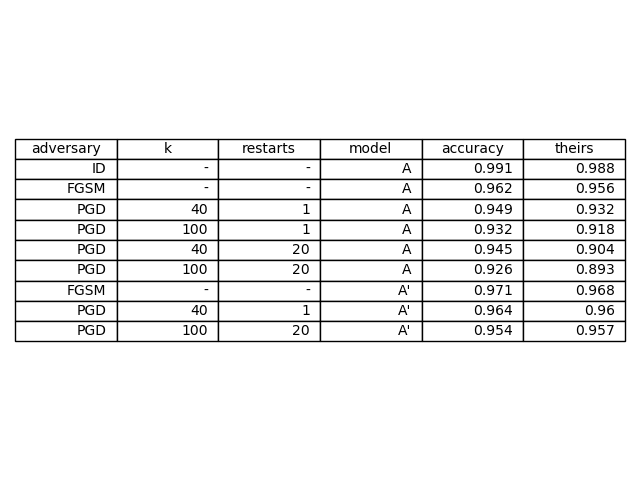
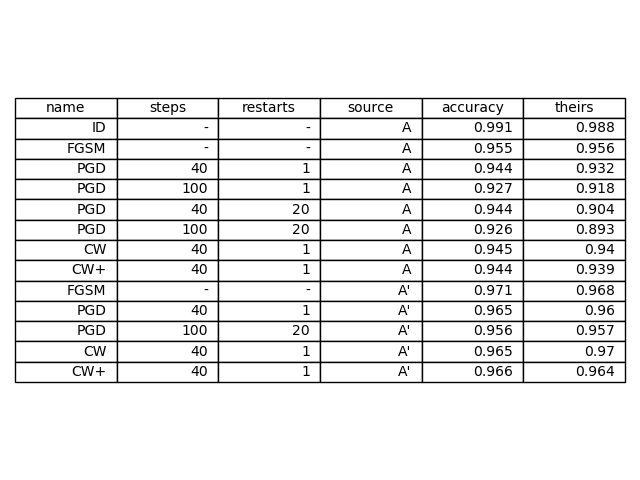
fixed experiment 3

diff --git a/experiments/exp3.py b/experiments/exp3.py
@@ -3,6 +3,7 @@ import copy
 import pprint
 import torch
 import os
+import re
 
 import sys
 import pathlib
@@ -29,7 +30,7 @@ config['other_trainers'] = {
     }
 }
 
-config['eval']['final_metrics']['adversaries'] = [
+adversaries = [
     {'': 'ID', 'theirs': .988},
     {**config['adversaries']['FGSM'], 'theirs': .956},
     {**config['adversaries']['PGD'], 'k': 40, 'restarts': 1, 'theirs': .932},
@@ -39,14 +40,22 @@ config['eval']['final_metrics']['adversaries'] = [
     {**config['adversaries']['PGD'], 'k': 100, 'restarts': 1, 'theirs': .918},
     {**config['adversaries']['PGD'], 'k': 40, 'restarts': 20, 'theirs': .904},
     {**config['adversaries']['PGD'], 'k': 100, 'restarts': 20, 'theirs': .893},
+
     # TODO: What the fuck is this "targeted" row?  I might just be
     # blind but I can't find it defined anywhere.  Maybe it's just
     # CW with a specific target class?
-
     # Targeted 40 1 A
-    {**config['adversaries']['PGD'], '': 'CW', 'name': 'CW', 'theirs': .940},
-    {**config['adversaries']['PGD'],
-     '': 'CW', 'k': 50, 'name': 'CW+', 'theirs': .939},
+
+    # TODO: I don't know what confidence to put for the CW adversary.
+    # The paper doesn't say, and 0 gives results that don't match
+    # theirs (while 50 matches their CW+ quite well).  I went with 20
+    # because it seems to give roughly the right numbers and the CW
+    # paper mentions it as the success plateaux for transfer attacks
+    # (pg. 15).
+    {**config['adversaries']['PGD'], '': 'CW', 'name': 'CW',
+     'confidence': 20, 'restarts': 1, 'theirs': .940},
+    {**config['adversaries']['PGD'], '': 'CW', 'name': 'CW+',
+     'confidence': 50, 'restarts': 1, 'theirs': .939},
 
     {**config['adversaries']['FGSM'], 'model': "A'", 'theirs': .968},
     {**config['adversaries']['PGD'], 'model': "A'",
@@ -54,38 +63,40 @@ config['eval']['final_metrics']['adversaries'] = [
     {**config['adversaries']['PGD'], 'model': "A'",
      'k': 100, 'restarts': 20, 'theirs': .957},
     {**config['adversaries']['PGD'], 'model': "A'",
-     '': 'CW', 'name': 'CW', 'theirs': .970},
+     '': 'CW', 'name': 'CW', 'confidence': 20, 'restarts': 1, 'theirs': .970},
     {**config['adversaries']['PGD'], 'model': "A'",
-     '': 'CW', 'k': 50, 'name': 'CW+', 'theirs': .964},
+     '': 'CW', 'confidence': 50, 'restarts': 1, 'name': 'CW+', 'theirs': .964},
 
     # FGSM B,
     # PGD 40 1 B,
     # CW+ B
 ]
+
 theirs = []
-for i, o in enumerate(config['eval']['final_metrics']['adversaries']):
-    o['name'] = f'{i}'
-    theirs.append(o['theirs'])
-    del o['theirs']
+config['eval']['final_metrics'] = []
+for adversary in adversaries:
+    theirs.append(adversary.pop('theirs'))
+    config['eval']['final_metrics'].append(
+        {'adversaries': [adversary], 'metrics': ['accuracy']}
+    )
 del config['adversaries']
+
 log.info('-'*20)
 log.info('NEW RUN')
 log.info('-'*20)
 log.info('\n'+pprint.pformat(config))
 log.info('---')
-_results = trainer.eval(config)
-print(_results)
-results = []
-for _result in _results:
-    for i, o in enumerate(config['eval']['final_metrics']['adversaries']):
-        to_append = copy.deepcopy(o)
-        o['adversary'] = o['']
-        del o['']
-        results.append({
-            **o,
-            'accuracy': _result[f'{i}_accuracy'],
-            'theirs': theirs[i],
-        })
+results = trainer.eval(config)
+for result, x, conf in zip(results, theirs, adversaries):
+    result['theirs'] = x
+    result['steps'] = conf.get('k', '-')
+    result['restarts'] = conf.get('restarts', '-')
+    result['source'] = conf.get('model', 'A')
+    for k in list(result):
+        if m := re.fullmatch('(.+)_accuracy', k):
+            result['name'] = m[1]
+            result['accuracy'] = result.pop(k)
+print(results)
 
 log.info(results)
 df = pd.DataFrame(results)

diff --git a/trainer.py b/trainer.py
@@ -67,6 +67,7 @@ class Trainer(utils.Writable):
             'MNIST': model.Mnist,
             'FGSM': adversary.FGSM,
             'PGD': adversary.PGD,
+            'CW': adversary.CW,
             'ID': adversary.ID,
         }
         cls = subconfig.pop('')
@@ -99,8 +100,8 @@ class Trainer(utils.Writable):
                 out_str += f' ({batch_per_sec})'
                 log.info(out_str)
 
-    def grad_cb(self, ys, loss_fn=None):
-        def f(points):
+    def grad_cb(self, ys):
+        def f(points, loss_fn=None):
             # TODO: should we be explicitly setting train to True or False
             # here?  Probably it's fine either way.
             with torch.enable_grad():
@@ -216,6 +217,7 @@ def train_test_metrics(_train_config):
 
 @utils.fs_cacheable()
 def eval(config):
+    trainer_hash = utils.json_hash(config['trainer'])
     trainer = train(config['trainer'])
     data_points = []
     other_trainers = {}
@@ -224,6 +226,21 @@ def eval(config):
     final_metrics = config['eval']['final_metrics']
     if isinstance(final_metrics, dict):
         final_metrics = [final_metrics]
+
+    @utils.fs_cacheable(version=f'v1-{trainer_hash}')
+    def sub_eval(final_metric, adversary_config):
+        adversary = Trainer.subconfig(**adversary_config)
+        adversary_trainer = trainer
+        if getattr(adversary.config, 'model', None) is not None:
+            adversary_trainer = other_trainers[adversary.config.model]
+        log.info(f'Evaluating on {adversary_config}.')
+        results = trainer._test(adversary, adversary_trainer)
+        patch = {
+            f'{adversary.config.name}_{k}': results[k]
+            for k in final_metric['metrics']
+        }
+        return patch
+
     for final_metric in final_metrics:
         obj = {
             'step': trainer.step,
@@ -232,16 +249,7 @@ def eval(config):
             **final_metric.get('tags', {}),
         }
         for adversary_config in final_metric['adversaries']:
-            adversary = Trainer.subconfig(**adversary_config)
-            adversary_trainer = trainer
-            if getattr(adversary.config, 'model', None) is not None:
-                adversary_trainer = other_trainers[adversary.config.model]
-            log.info(f'Evaluating on {adversary_config}.')
-            results = trainer._test(adversary, adversary_trainer)
-            patch = {
-                f'{adversary.config.name}_{k}': results[k]
-                for k in final_metric['metrics']
-            }
+            patch = sub_eval(final_metric, adversary_config)
             obj = {**obj, **patch}
         data_points.append(obj)
     return data_points

diff --git a/adversary.py b/adversary.py
@@ -173,18 +173,18 @@ class PGD(Adversary):
 
 class CWConfig(PGDConfig):
     _defaults = {
-        'k': 0,
+        'confidence': 0,
     }
 class CW(PGD):
     def __init__(self, **config):
         self.config = CWConfig(config)
 
-    # Adapted from pg. 10 of https://arxiv.org/pdf/1608.04644.pdf The
-    # main difference is that A) We're doing PGD instead of trying to
-    # find the smallest attack that works, and B) We're trying to get
-    # any wrong answer rather than a specific target, so the max is
-    # flipped.
-    def loss_fn(self, logits, ys):
+    # Adapted from pg. 10 of https://arxiv.org/pdf/1608.04644.pdf.
+    # The main difference is that A) We're doing PGD instead of trying
+    # to find the smallest attack that works, and B) We're trying to
+    # get any wrong answer rather than a specific target, so the max
+    # is flipped.
+    def loss_fn(self, logits, ys, reduce=None):
         c = self.config
         batch_sz, n_cls = logits.shape
         arange = torch.arange(n_cls, device=logits.device)
@@ -195,20 +195,27 @@ class CW(PGD):
         max_true_logit = torch.max(
             torch.where(true_val_mask, logits, ninf),
             dim=1,
-        )
+        ).values
         max_false_logit = torch.max(
             torch.where(true_val_mask.logical_not(), logits, ninf),
             dim=1,
-        )
+        ).values
         # This step doesn't really make sense for PGD.  Normally the
         # idea is to make the network just-barely-wrong and then
         # minimize distance, but now that we're allowed to be up to
         # epsilon wrong, this just stopes us from optimizing once we
         # reach a known certainty.  Maybe we're supposed to still be
         # minimizing distance?  The paper is unclear.
-        return torch.max(max_true_logit - max_false_logit, -c.k)
+        loss = torch.max(max_false_logit - max_true_logit,
+                         torch.tensor(-c.confidence))
+        if reduce is None:
+            return torch.mean(loss)
+        elif reduce is False:
+            return loss
+        else:
+            raise RuntimeError(f'unsupported loss reduction {reduce}')
 
     def perturb(self, start_point, grad_cb):
         def new_grad_cb(point):
             return grad_cb(point, loss_fn=self.loss_fn)
-        super().perturb(start_point, new_grad_cb)
+        return super().perturb(start_point, new_grad_cb)

diff --git a/experiments/exp3_plot.py b/experiments/exp3_plot.py
@@ -18,11 +18,7 @@ ax = fig.gca()
 ax.axis('off')
 ax.axis('tight')
 
-res = res[['adversary', 'k', 'restarts', 'model', 'accuracy', 'theirs']]
-res.update(res[['model']].applymap(
-    lambda x: 'A' if isinstance(x, float) and math.isnan(x) else x
-))
-res.update(res.applymap(lambda x: '-' if isinstance(x, float) and math.isnan(x) else x))
+res = res[['name', 'steps', 'restarts', 'source', 'accuracy', 'theirs']]
 res.update(res[['accuracy']].applymap(lambda x: f'{x:.3f}'))
 res.update(res.applymap(
     lambda x: f'{x:g}' if isinstance(x, float) else x

diff --git a/experiments/results/results.md b/experiments/results/results.md
@@ -2,14 +2,20 @@
 
 All results are compared to https://arxiv.org/pdf/1706.06083.pdf
 
-I reproduced the graphs in section 5, Experiments, for MNIST but not
-for CIFAR.  It would potentially be interesting to reproduce figures 1
-and 2 from the earlier sections as well.
+I reproduced the graphs in Section 5 (Experiments) for MNIST.  It
+would potentially be interesting to reproduce figures 1 and 2 from the
+earlier sections as well.
 
 Their adversarial training scheme is super slow (40 steps of PGD per
 outer step of training), so I didn't reproduce the CIFAR results yet.
 
-
+To reproduce e.g. experiment 1:
+```
+cd mnist_aec_pytorch/experiments
+python exp1.py
+python exp1_plot.py results/exp1.df
+open results/exp1.png
+```
 
 
 # Experiment 1 (Figure 4)
@@ -58,7 +64,9 @@ That seems suspicious to me, I should double-check the training code.
 
 I'm not sure what their "Targeted" attack is, and I had to guess some
 of the details for the CW/CW+ attacks.  I haven't looked into model B
-yet.  Otherwise very similar.
+yet.
+
+TODO: why are our restart numbers so high?
 
 # Experiment 4 (Figure 6):
 

diff --git a/README.md b/README.md
@@ -6,7 +6,10 @@
   in [0, 256) and then does lattice search if that isn't good enough.
   This paper seems to just let us pass arbitrary floats.  Try it both ways?
 
+* Add a requirements file.
 
+* Add lock-holding for the training cache so experiments can be run in
+  parallel without re-doing work?
 
 ## Thoughts
 
@@ -21,7 +24,10 @@
   this would behave if we patched the ReLU units to pass through
   gradients as if they were softmax (just lie basically)?
 
-* I wonder how things behave if instead of training against adversarial attacks within an epsilon ball, the value of epsilon is sampled at training time from some distribution?  Would that get similar results without the sharp dropoff past that epsilon ball?
+* I wonder how things behave if instead of training against
+  adversarial attacks within an epsilon ball, the value of epsilon is
+  sampled at training time from some distribution?  Would that get
+  similar results without the sharp dropoff past that epsilon ball?
 
 * The only scaling experiments look at width, I wonder how depth
   affects things?
